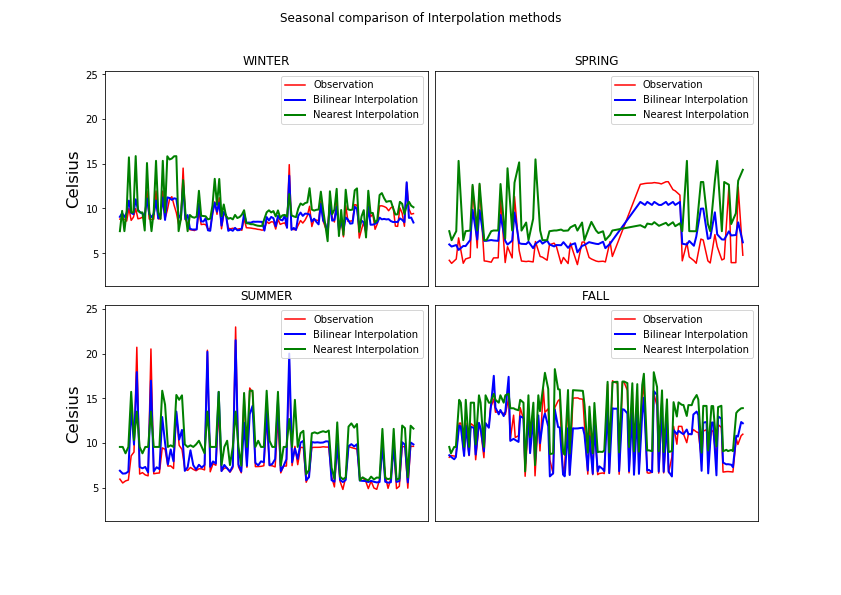
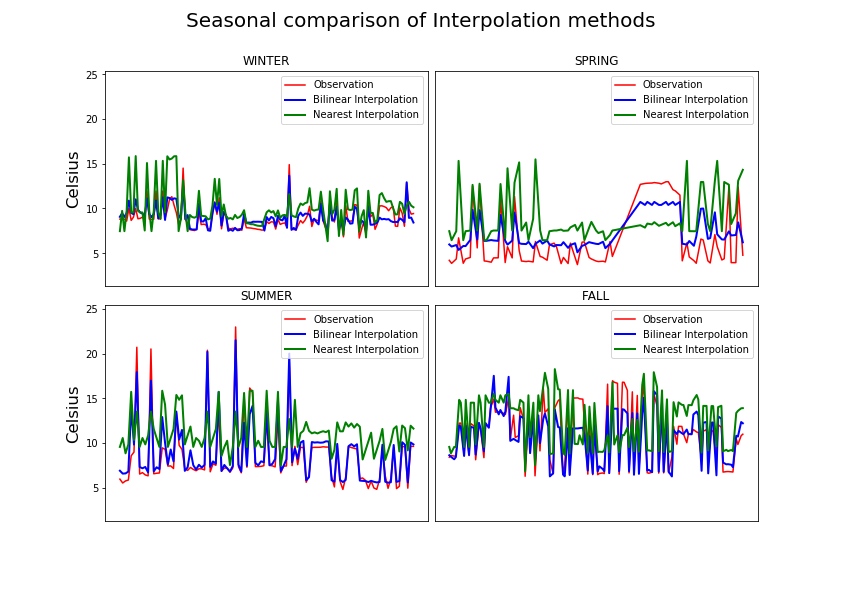
Add files via upload

diff --git a/Sensitivity to interplations method/interpolation_comparison_figure.py b/Sensitivity to interplations method/interpolation_comparison_figure.py
@@ -5,10 +5,41 @@ Created on Mon Jul 27 17:47:14 2020
 @author: Mingchao
 """
 import pandas as pd
+import numpy as np
 import matplotlib.pyplot as plt
 import os
 from matplotlib import gridspec
+import math
 
+def multipl(a,b):
+    '''
+    Input two sequences
+    Output the sum of the products of the two sequences
+    '''
+    sumofab = 0.0
+    for i in range(len(a)):
+        temp = a[i]*b[i]
+        sumofab += temp
+    return sumofab
+
+def corrcoef(x,y):
+    '''
+    Input two sequences
+    Output Correlation coefficient of two series
+    '''
+    n = len(x)
+    #sum
+    sum1 = sum(x)
+    sum2 = sum(y)
+    #Find the sum of products
+    sumofxy = multipl(x,y)
+    #Find the sum of squares
+    sumofx2 = sum([pow(i,2) for i in x])
+    sumofy2 = sum([pow(j,2) for j in y])
+    num = sumofxy-(float(sum1)*float(sum2)/n)
+    #Calculate Pearson's correlation coefficient
+    den = math.sqrt((sumofx2-float(sum1**2)/n)*(sumofy2-float(sum2**2)/n))
+    return num/den
 ###################### Hardcodes #########################
 path = 'E:\\Mingchao\\paper\\interpo_comparison_data.csv'
 path_save = 'E:\\Mingchao\\paper'
@@ -53,5 +84,10 @@ for i in range(4):
     ax_list[i].set_ylim(MIN_T-textend_lim,MAX_T+textend_lim)
     ax_list[i].set_title(seasons[i])
     ax_list[i].legend()
-fig.suptitle('Seasonal comparison of Interpolation methods')
+    print(seasons[i]+':')
+    print('observation mean:%f'%np.mean(observation_list),'fitting mean:%f'%np.mean(fitting_list),'no_fitting mean:%f'%np.mean(nofitting_list))
+    print('observation std:%f'%np.std(observation_list,ddof=1),'fitting std:%f'%np.std(fitting_list,ddof=1),'no_fitting std:%f'%np.std(nofitting_list,ddof=1))
+    print('observation var:%f'%np.var(observation_list),'fitting var:%f'%np.var(fitting_list),'no_fitting var:%f'%np.var(nofitting_list))
+    print('fitting mean:%f'%corrcoef(fitting_list,observation_list),'no_fitting mean:%f'%corrcoef(nofitting_list,observation_list))
+fig.suptitle('Seasonal comparison of Interpolation methods',fontsize=20)
 plt.savefig(os.path.join(path_save,'interpolation_comparison_figure.png'))
